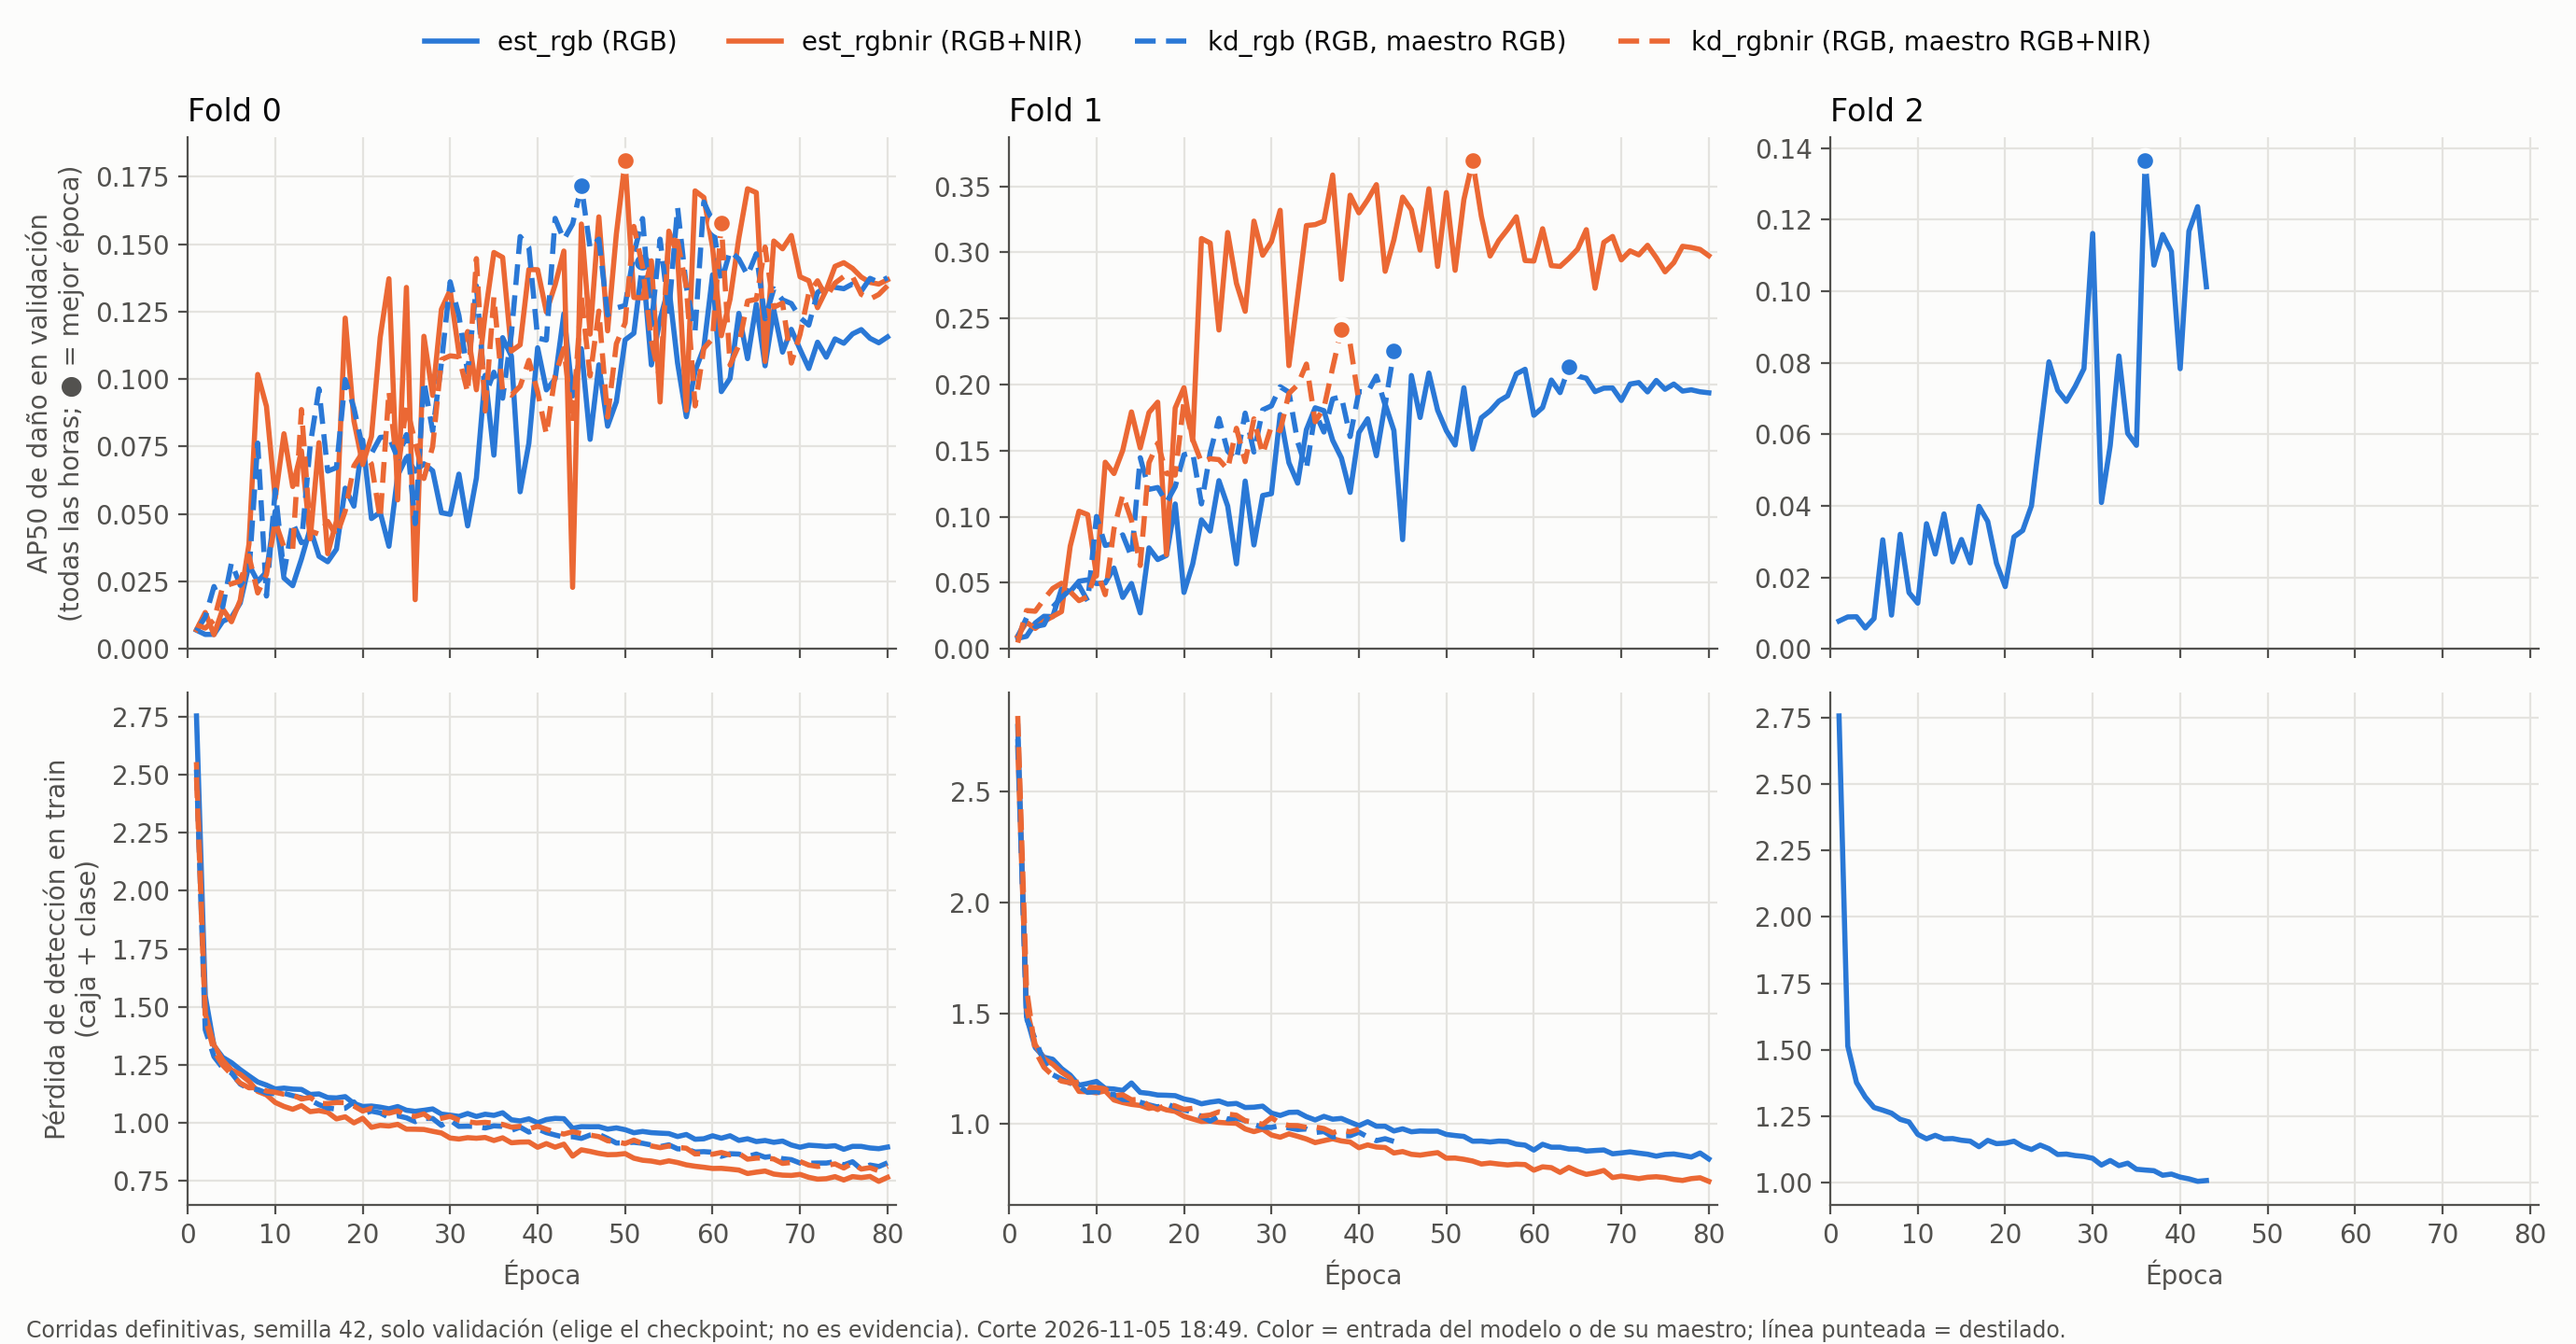
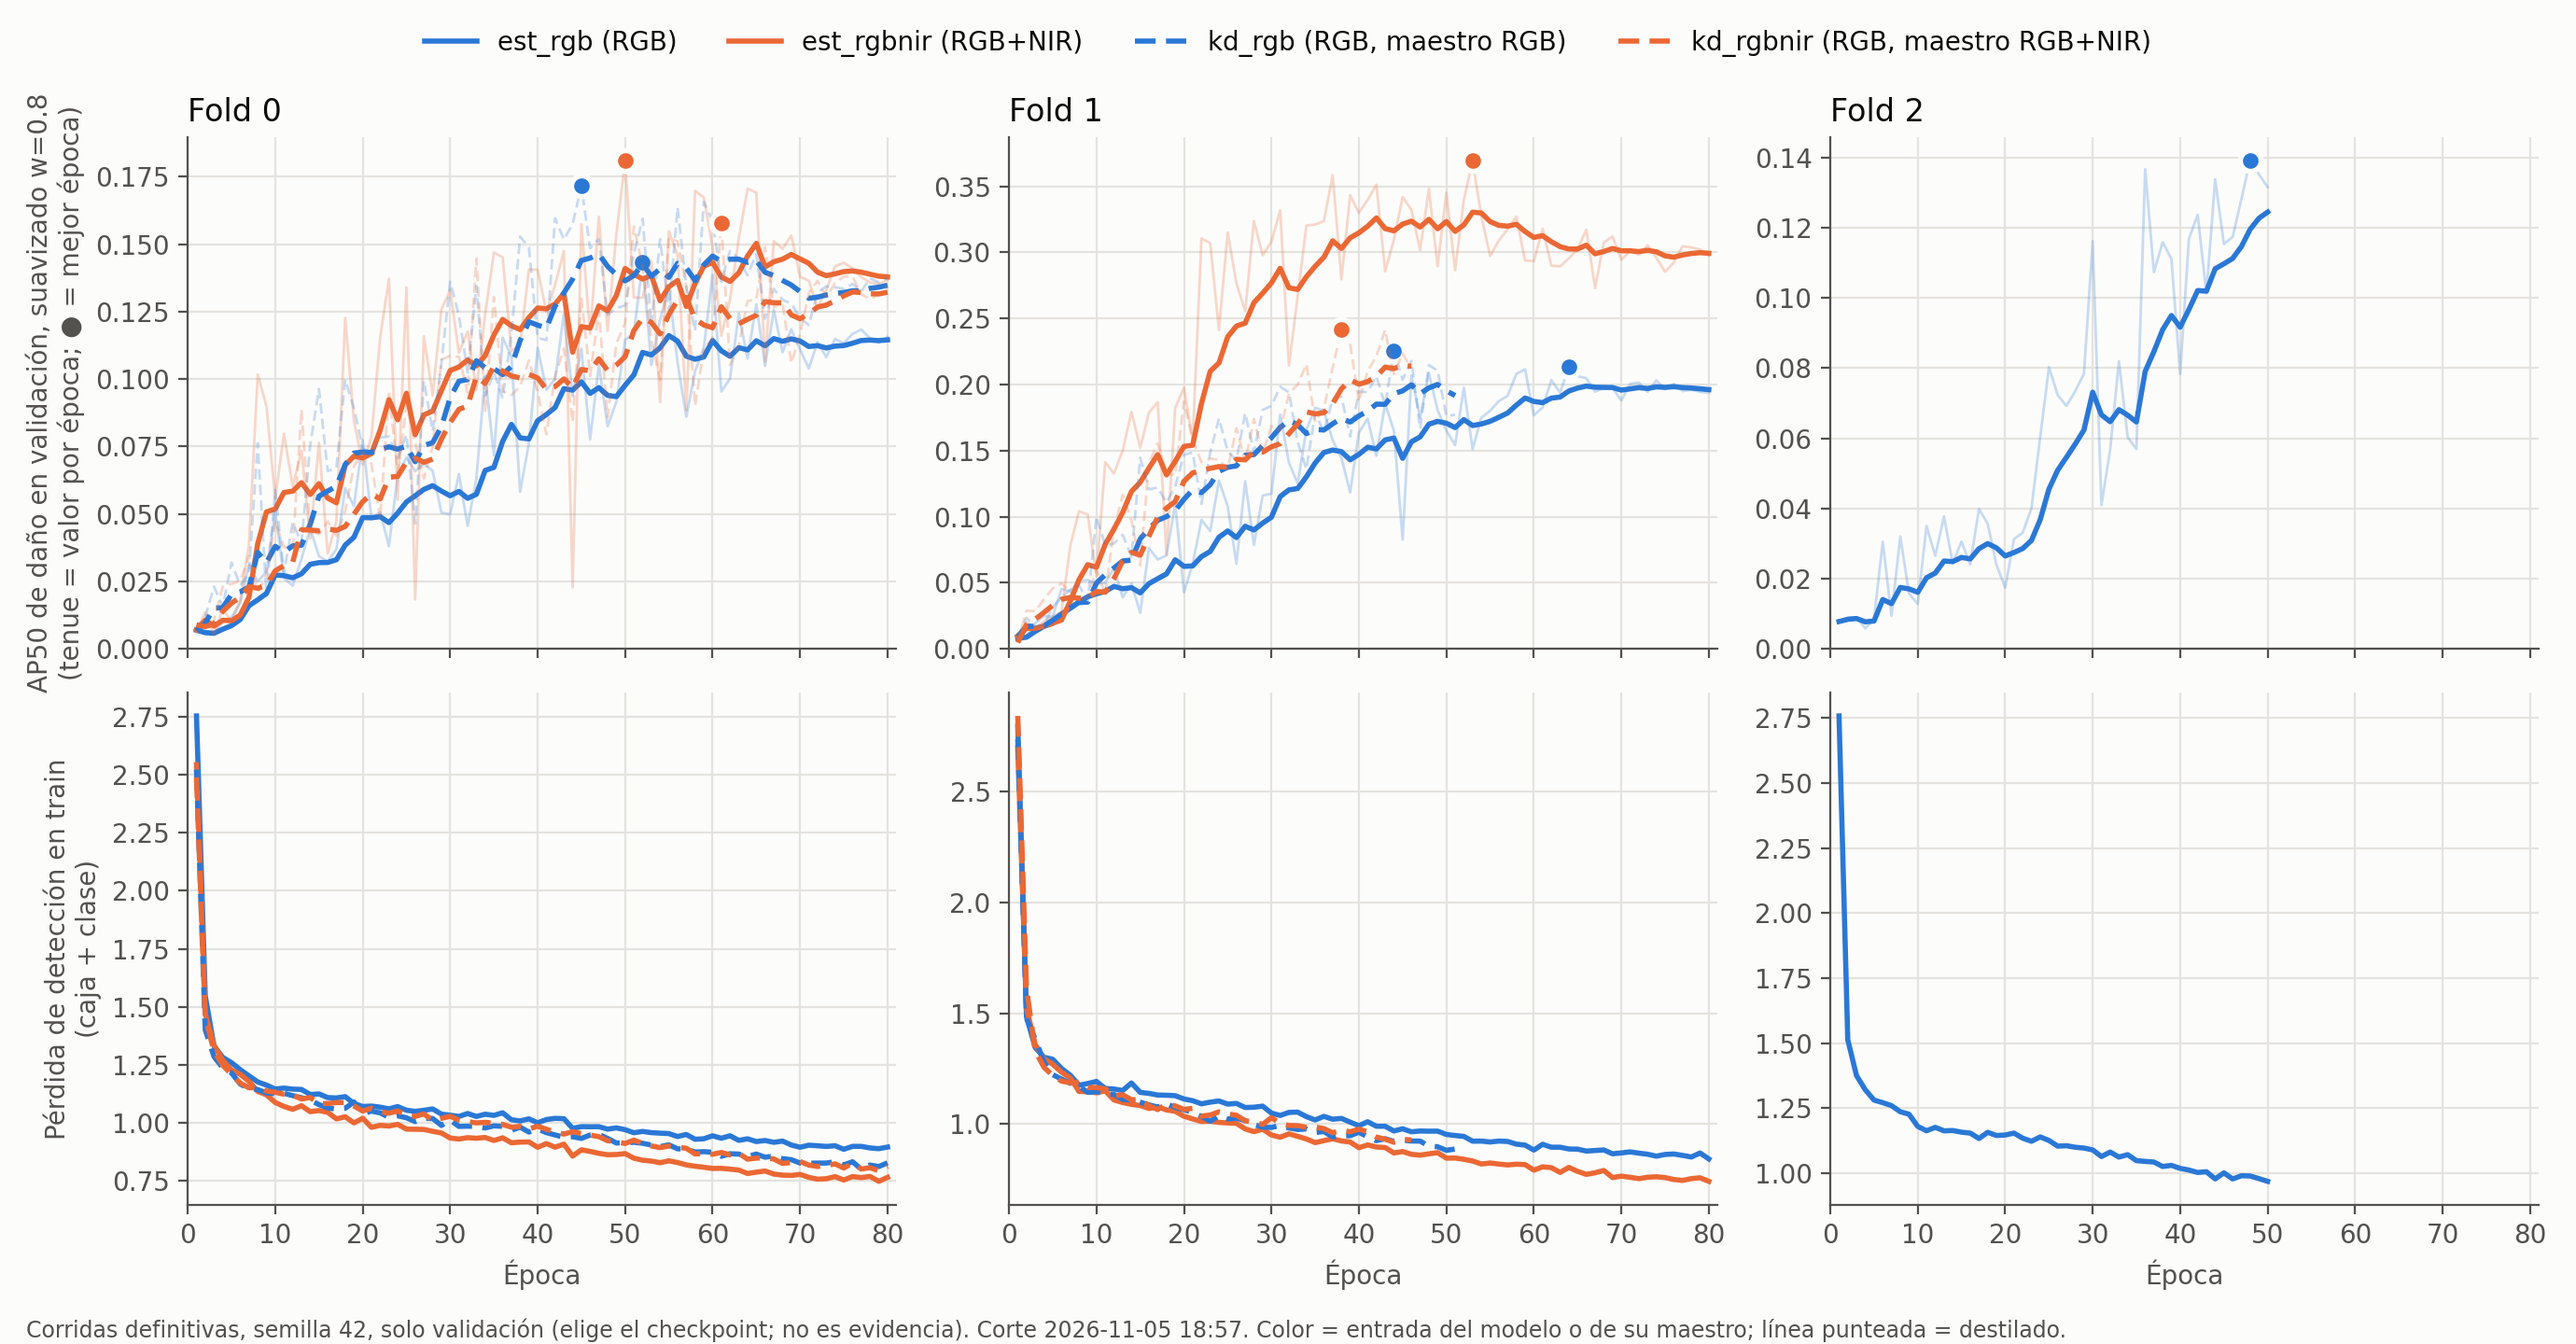
feat(analysis): smooth the validation AP curves of the definitive runs
The per-epoch AP is drawn faint and an exponential moving average with
bias correction (w=0.8 by default, about 5 epochs) is drawn over it. Only
the drawing changes: the dot is still the raw best epoch, the checkpoint
each run selected.

diff --git a/scripts/plot_run_curves.py b/scripts/plot_run_curves.py
@@ -5,7 +5,12 @@ Reads the TensorBoard logs only (validation, never test). Colour is what the mod
 orange RGB+NIR); a dashed line is a distilled student. The detection loss is box + cls, the same in every arm: the
 total loss of a KD run also holds its distillation term.
 
-    python scripts/plot_run_curves.py runs/final reports/final-runs-progress/curves_seed42.png
+The AP curve is drawn twice: the raw values faint, and over them an exponential smoothing with bias correction
+(the TensorBoard one), smoothed_t = (1 - w) * sum_i w^(t-i) * ap_i / (1 - w^t). The weight w is the optional third
+argument (default 0.8, about 5 epochs; 0 turns it off). Smoothing changes only the drawing: the dot is still the raw
+best epoch, the checkpoint the run selected.
+
+    python scripts/plot_run_curves.py runs/final reports/final-runs-progress/curves_seed42.png [0.8]
 """
 import glob, sys, datetime
 import matplotlib; matplotlib.use("Agg")
@@ -13,6 +18,7 @@ import matplotlib.pyplot as plt
 from tensorboard.backend.event_processing.event_accumulator import EventAccumulator
 
 ROOT, OUT = sys.argv[1], sys.argv[2]  # runs root with <arm>/fold<k>/seed42, output PNG
+SMOOTH = float(sys.argv[3]) if len(sys.argv) > 3 else 0.8
 SURFACE, INK, INK2, GRID = "#fcfcfb", "#0b0b0b", "#52514e", "#e4e3df"
 BLUE, ORANGE = "#2a78d6", "#eb6834"
 ARMS = [  # (arm, color by input of the model or its teacher, line by training, label)
@@ -21,6 +27,14 @@ ARMS = [  # (arm, color by input of the model or its teacher, line by training, 
     ("kd_rgb", BLUE, (0, (4, 2)), "kd_rgb (RGB, maestro RGB)"),
     ("kd_rgbnir", ORANGE, (0, (4, 2)), "kd_rgbnir (RGB, maestro RGB+NIR)"),
 ]
+
+def smooth(values, w):
+    """Exponential moving average with bias correction, so the first epochs are not pulled towards 0."""
+    out, acc = [], 0.0
+    for t, v in enumerate(values, 1):
+        acc = w * acc + (1 - w) * v
+        out.append(acc / (1 - w ** t) if w else v)
+    return out
 
 def scalars(run):
     out = {}
@@ -49,7 +63,10 @@ for col, fold in enumerate(folds):
         box, cls = s.get("Phase1/train/box_loss", {}), s.get("Phase1/train/cls_loss", {})
         if not ap: continue
         ep = sorted(ap)
-        axes[0][col].plot(ep, [ap[e] for e in ep], color=color, ls=ls, lw=2, label=label)
+        raw = [ap[e] for e in ep]
+        if SMOOTH:
+            axes[0][col].plot(ep, raw, color=color, ls=ls, lw=1, alpha=0.25)
+        axes[0][col].plot(ep, smooth(raw, SMOOTH), color=color, ls=ls, lw=2, label=label)
         best = max(ep, key=ap.get)
         axes[0][col].plot([best], [ap[best]], "o", ms=8, color=color, mec=SURFACE, mew=2)
         le = sorted(set(box) & set(cls))
@@ -59,6 +76,10 @@ for col, fold in enumerate(folds):
     axes[1][col].set_xlabel("Época")
     axes[1][col].set_xlim(0, 81)
 axes[0][0].set_ylabel("AP50 de daño en validación\n(todas las horas; ● = mejor época)")
+if SMOOTH:
+    axes[0][0].set_ylabel(
+        f"AP50 de daño en validación, suavizado w={SMOOTH:g}\n(tenue = valor por época; ● = mejor época)"
+    )
 axes[1][0].set_ylabel("Pérdida de detección en train\n(caja + clase)")
 handles, labels = axes[0][0].get_legend_handles_labels()
 fig.legend(
